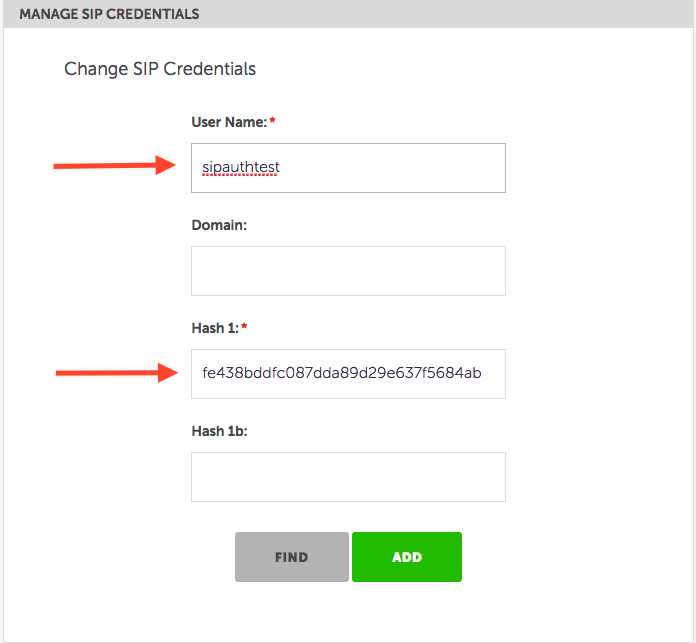
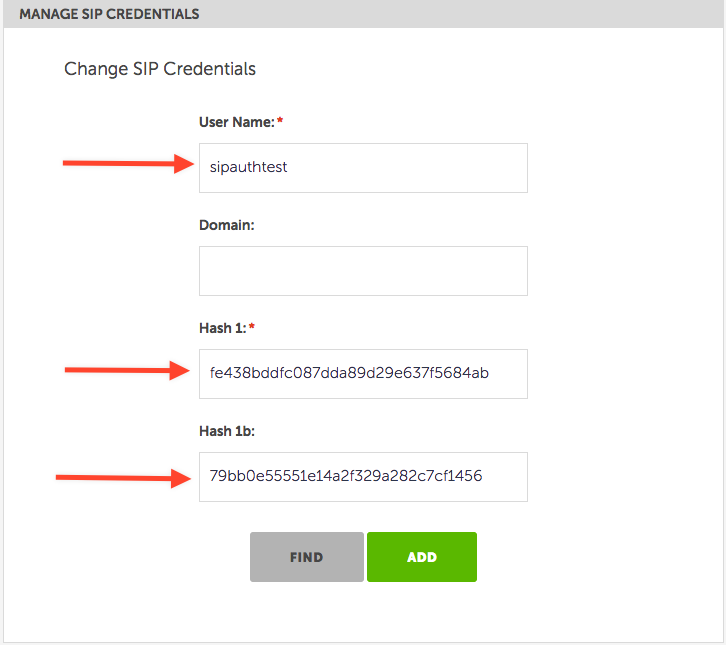
updates

diff --git a/network_bridge/network_bridge.md b/network_bridge/network_bridge.md
@@ -2,6 +2,8 @@
 
 This guide walks through the initial setup for Bandwidth's Network Bridge. The network bridge allows you to use Bandwidth to create phone calls using our network.
 
+---
+
 **YOU MUST CONTACT [BANDWIDTH CUSTOMER SUPPORT](http://support.bandwidth.com) TO GET YOUR SIP DOMAIN AND PORT NUMBER**
 
 ## Pre-reqs
@@ -25,10 +27,11 @@ In order to route the outbound calls through Bandwidth, you will need to create 
 |:-----------|:-------------|:----------------------------------------------------------------------------------------------------------------------------------------------------------------------------------------------------------------------------------------------------------------------------------------------------------------|
 | `Username` | **required** | String identifying the user.                                                                                                                                                                                                                                                                                    |
 | `Domain`   | _optional_   | **Recommended to leave blank** <br> String refining the identity of the user. <br> The Domain will be joined to the UserName with an `@` to create a composite username. For example, the UserName `bob` could be combined with the domain `somewhere.com` to create a _composite username_ `bob@somewhere.com` |
-| `Hash1`    | **required** | String representing a potential Hash values used to authenticate the client. <br> The value should be computed from an MD5 Hash of `{composite-username}:{Realm}:{Password}`.                                                                                                                                   |
-| `Hash1b`   | **required** | String representing a potential Hash value used to authenticate the client. <br> The value should be computed from an MD5 Hash of `{composite-username}:{Realm}:{Domain}:{Password}`. <br> **If the Domain is not specified the Hash1b is not required.**                                                       |
+| `Hash1`    | **required** | String representing a potential Hash values used to authenticate the client. <br> The value should be computed from an MD5 Hash of: `{composite-username}:{Realm}:{Password}`.                                                                                                                                   |
+| `Hash1b`   | **required** | String representing a potential Hash value used to authenticate the client. <br> The value should be computed from an MD5 Hash of `{composite-username}:{Realm}:{Domain}:{Password}`. <br> **If the `{Domain}` is not specified use the `{Realm}` as the `{Domain}`.**                                          |
 
-_The Twilio platform requires a SIPAuthUsername and a SIPAuthPassword. Assuming that your username=sipauthtest and password=password_
+
+_The Twilio platform requires a SIPAuthUsername and a SIPAuthPassword. These examples assume that your username=sipauthtest and password=password_
 
 ### Generate MD5 hash from username and password
 
@@ -49,16 +52,16 @@ $ md5 -s sipauthtest:custxx.auth.bandwidth.com:password
 MD5 ("sipauthtest:custxx.auth.bandwidth.com:password") = fe438bddfc087dda89d29e637f5684ab
 ```
 
-###### Generate md5 Hash1b _without domain_
+###### Generate md5 Hash1b _without_ domain
 ```
 $ md5 -s sipauthtest@custxx.auth.bandwidth.com:custxx.auth.bandwidth.com:password
 MD5 ("sipauthtest@custxx.auth.bandwidth.com:custxx.auth.bandwidth.com:password") = 79bb0e55551e14a2f329a282c7cf1456
 ```
 
-###### Generate md5 Hash1b _with domain_
+###### Generate md5 Hash1b _with_ domain
 ```
-$ md5 -s sipauthtest@custxx.auth.bandwidth.com:bob@somewhere.com:password
-MD5 ("sipauthtest@custxx.auth.bandwidth.com:bob@somewhere.com:password") = 5a70dbaa969ac1b6b985e8ee0d4bfe37
+$ md5 -s bob@somewhere.com@custxx.auth.bandwidth.com:somewhere.com:password
+MD5 ("bob@somewhere.com@custxx.auth.bandwidth.com:somewhere.com:password") = 688f98e87931fa759270d54701159e63
 ```
 
 ### Add the newly created hash to the SIP Credentials
